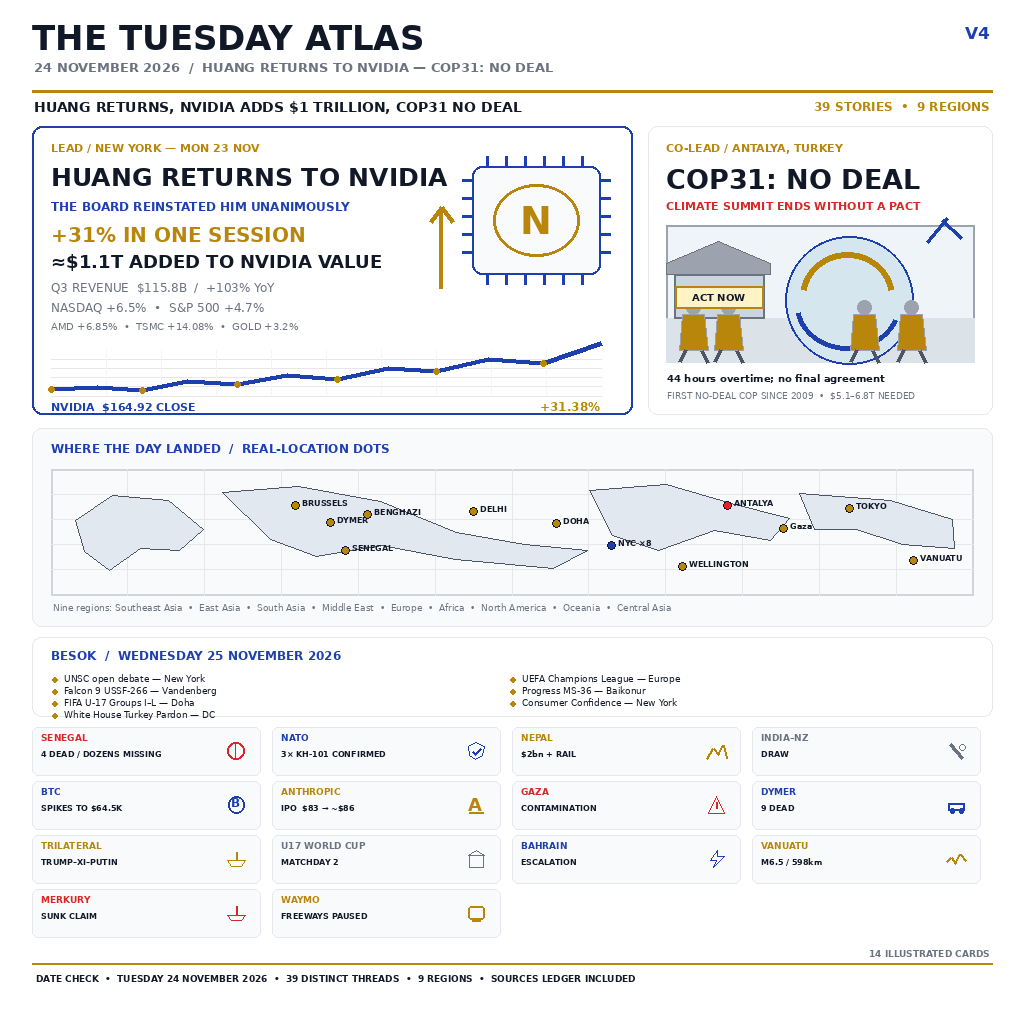
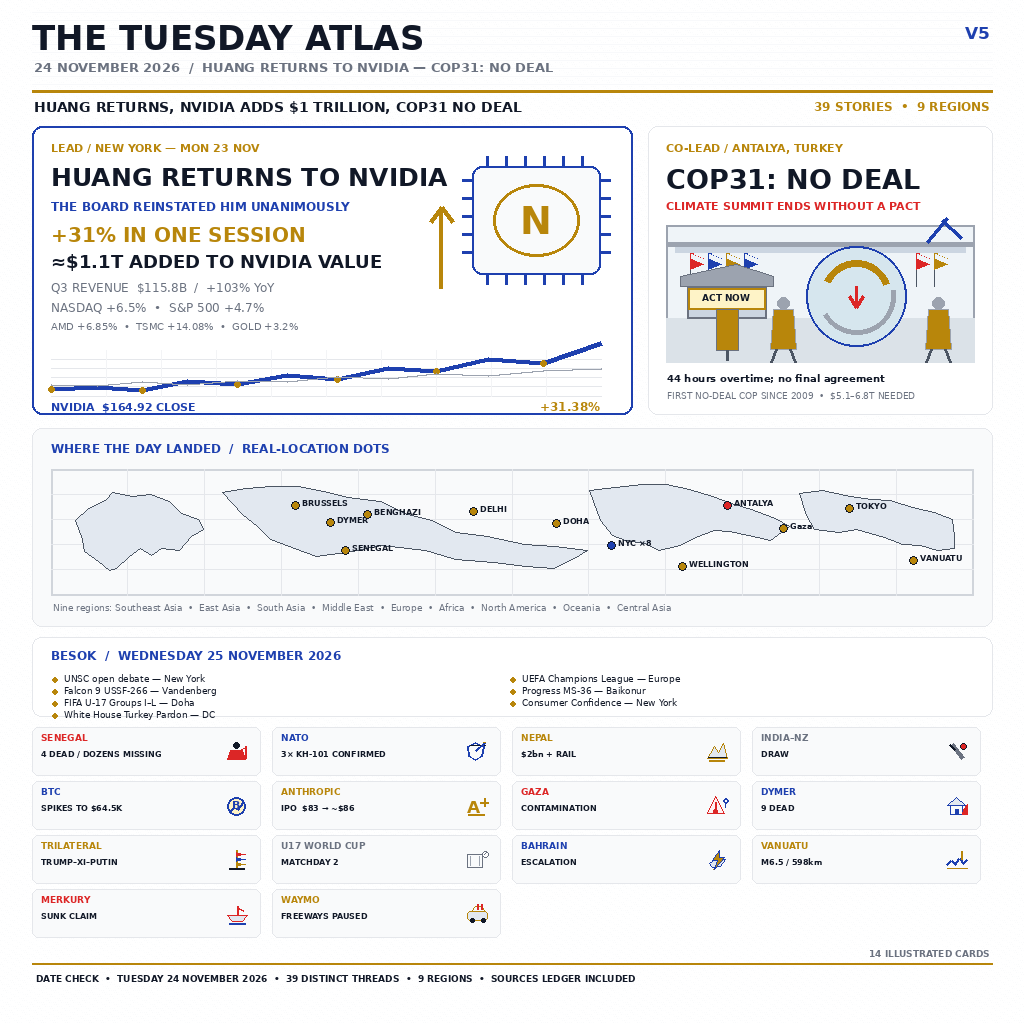
Add richer visual details for NI24 V5

diff --git a/render.py b/render.py
@@ -5,13 +5,25 @@ BG = (255, 255, 255); PANEL = (249, 250, 251); INK = (17, 24, 39)
 MUTED = (107, 114, 128); GOLD = (184, 134, 11); CYAN = (30, 64, 175)
 RED = (220, 38, 38); BLUE = (30, 64, 175); GREEN = (107, 114, 128); ORANGE = (184, 134, 11)
 im = Image.new('RGB', (W, H), BG); d = ImageDraw.Draw(im)
+# Deterministic paper grain keeps the large white field tactile while remaining
+# below normal viewing contrast. It also survives downsampling as a clean tint.
+for yy in range(0, H, 2):
+    for xx in range((yy // 2) % 2, W, 2):
+        grain = ((xx * 1103515245 + yy * 12345 + 67891) >> 8) % 17
+        if grain < 9:
+            shade = 249 + (grain % 4)
+            im.putpixel((xx, yy), (shade, shade + 1, shade + 2))
+d = ImageDraw.Draw(im)
 FP = '/usr/share/fonts/truetype/dejavu/DejaVuSans.ttf'; FB = '/usr/share/fonts/truetype/dejavu/DejaVuSans-Bold.ttf'
 def font(n, bold=False): return ImageFont.truetype(FB if bold else FP, n)
 def text(x, y, s, n=12, c=INK, bold=False, anchor=None): d.text((x, y), s, font=font(n, bold), fill=c, anchor=anchor)
 def box(x0, y0, x1, y1, fill=PANEL, outline=(229, 231, 235), r=8, w=1): d.rounded_rectangle((x0,y0,x1,y1), r, fill=fill, outline=outline, width=w)
 def line(points, fill, width=2): d.line(points, fill=fill, width=width)
 
-text(32,18,'THE TUESDAY ATLAS',34,INK,True); text(34,59,'24 NOVEMBER 2026  /  HUANG RETURNS TO NVIDIA — COP31: NO DEAL',13,MUTED,True); text(990,23,'V4',17,BLUE,True,'ra'); line((32,91,992,91),GOLD,3)
+# Barely-visible horizontal drafting rules add depth without competing with the masthead.
+for yy in range(12,88,8): line((32,yy,992,yy),(248,249,251),1)
+text(32,18,'THE TUESDAY ATLAS',34,INK,True); text(34,59,'24 NOVEMBER 2026  /  HUANG RETURNS TO NVIDIA — COP31: NO DEAL',13,MUTED,True); text(990,23,'V5',17,BLUE,True,'ra')
+line((32,91,992,91),GOLD,3)
 text(34,99,'HUANG RETURNS, NVIDIA ADDS $1 TRILLION, COP31 NO DEAL',14,INK,True); text(990,99,'39 STORIES  •  9 REGIONS',12,GOLD,True,'ra')
 
 box(32,126,632,414,(255,255,255),BLUE,10,2); text(51,141,'LEAD / NEW YORK — MON 23 NOV',11,GOLD,True); text(51,162,'HUANG RETURNS TO NVIDIA',25,INK,True); text(51,199,'THE BOARD REINSTATED HIM UNANIMOUSLY',12,BLUE,True); text(51,223,'+31% IN ONE SESSION',20,GOLD,True); text(51,251,'≈$1.1T ADDED TO NVIDIA VALUE',18,INK,True); text(51,280,'Q3 REVENUE  $115.8B  /  +103% YoY',12,MUTED); text(51,300,'NASDAQ +6.5%  •  S&P 500 +4.7%',12,MUTED); text(51,320,'AMD +6.85%  •  TSMC +14.08%  •  GOLD +3.2%',10,MUTED)
@@ -21,6 +33,9 @@ for i in range(1,10): line((gx+i*gw/10,gy,gx+i*gw/10,gy+gh),(243,244,246),1)
 pts=[(gx,gy+39),(gx+46,gy+37),(gx+91,gy+40),(gx+136,gy+31),(gx+186,gy+34),(gx+236,gy+25),(gx+286,gy+29),(gx+337,gy+18),(gx+385,gy+21),(gx+437,gy+9),(gx+492,gy+13),(gx+550,gy-7)]
 line(pts,CYAN,5)
 for x,y in pts[::2]: d.ellipse((x-3,y-3,x+3,y+3),fill=GOLD)
+# A fine gray market benchmark gives the dominant NVIDIA trace context.
+bench=[(gx,gy+34),(gx+46,gy+35),(gx+91,gy+31),(gx+136,gy+34),(gx+186,gy+30),(gx+236,gy+31),(gx+286,gy+26),(gx+337,gy+28),(gx+385,gy+23),(gx+437,gy+25),(gx+492,gy+20),(gx+550,gy+18)]
+line(bench,(156,163,175),2)
 text(51,400,'NVIDIA  $164.92 CLOSE',11,CYAN,True); text(600,399,'+31.38%',12,GOLD,True,'ra')
 d.rounded_rectangle((472,166,600,274),10,fill=(249,250,251),outline=BLUE,width=2)
 for xx in (487,506,525,544,563,582): line((xx,156,xx,166),CYAN,3); line((xx,274,xx,284),CYAN,3)
@@ -29,17 +44,24 @@ d.ellipse((493,184,579,256),outline=GOLD,width=3); text(536,220,'N',38,GOLD,True
 
 box(648,126,992,414,(255,255,255),(229,231,235),10,1); text(666,141,'CO-LEAD / ANTALYA, TURKEY',11,GOLD,True); text(666,163,'COP31: NO DEAL',27,INK,True); text(666,199,'CLIMATE SUMMIT ENDS WITHOUT A PACT',11,RED,True)
 ix0,iy0,ix1,iy1=666,225,974,362; d.rectangle((ix0,iy0,ix1,iy1),fill=(239,244,248),outline=(156,163,175),width=2); d.rectangle((ix0,318,ix1,iy1),fill=(219,226,232))
-# A summit hall scene: delegates, climate placards, and a storm front over the globe.
-d.ellipse((785,236,913,364),fill=(214,230,238),outline=BLUE,width=2); d.arc((800,252,894,342),190,350,fill=GOLD,width=6); d.arc((795,260,900,350),20,170,fill=BLUE,width=5); d.polygon([(666,263),(718,241),(770,263),(770,274),(666,274)],fill=(156,163,175),outline=(107,114,128)); d.rectangle((674,274,764,318),fill=(203,213,225),outline=(107,114,128),width=2)
-for x in (693,728,864,911):
- d.ellipse((x-7,300,x+7,314),fill=(156,163,175)); d.polygon([(x-11,314),(x+11,314),(x+15,350),(x-14,350)],fill=GOLD,outline=(156,163,175)); d.line((x-8,350,x-14,362),fill=(75,85,99),width=4); d.line((x+8,350,x+14,362),fill=(75,85,99),width=4)
-d.rectangle((675,286,763,308),fill=(254,243,199),outline=GOLD,width=2); text(719,297,'ACT NOW',10,INK,True,'mm'); d.line((927,242,947,218),fill=BLUE,width=3); d.line((942,220,961,238),fill=BLUE,width=3)
+# A compact summit hall: flag wall, podium, delegates, and a broken progress ring.
+d.rectangle((666,242,974,246),fill=(156,163,175)); d.rectangle((675,247,965,252),fill=(203,213,225))
+for fx,fc in ((690,RED),(708,BLUE),(726,GOLD),(744,BLUE),(916,RED),(934,GOLD)):
+ d.line((fx,253,fx,286),fill=(75,85,99),width=1); d.polygon([(fx,253),(fx+13,258),(fx,253),(fx,269),(fx+13,264),(fx,258)],fill=fc)
+d.ellipse((806,246,906,346),fill=(214,230,238),outline=BLUE,width=2)
+d.arc((821,260,891,330),205,340,fill=GOLD,width=7); d.arc((818,258,895,334),350,150,fill=(156,163,175),width=5)
+d.line((856,286,856,307),fill=RED,width=3); d.line((849,296,856,307),fill=RED,width=3); d.line((863,296,856,307),fill=RED,width=3)
+d.polygon([(680,276),(736,264),(773,276),(773,286),(680,286)],fill=(156,163,175),outline=(107,114,128)); d.rectangle((687,286,766,318),fill=(203,213,225),outline=(107,114,128),width=2)
+d.rectangle((688,288,765,309),fill=(254,243,199),outline=GOLD,width=2); text(726,298,'ACT NOW',9,INK,True,'mm'); d.rectangle((716,309,738,350),fill=(184,134,11),outline=(107,114,128)); d.line((727,350,727,360),fill=(75,85,99),width=3)
+for x in (783,938):
+ d.ellipse((x-6,297,x+6,309),fill=(156,163,175)); d.polygon([(x-10,309),(x+10,309),(x+13,349),(x-13,349)],fill=GOLD,outline=(156,163,175)); d.line((x-7,349,x-12,362),fill=(75,85,99),width=3); d.line((x+7,349,x+12,362),fill=(75,85,99),width=3)
+d.line((927,242,947,218),fill=BLUE,width=3); d.line((942,220,961,238),fill=BLUE,width=3)
 text(667,372,'44 hours overtime; no final agreement',10,INK,True); text(667,390,'FIRST NO-DEAL COP SINCE 2009  •  $5.1–6.8T NEEDED',9,MUTED)
 
 box(32,428,992,626,(249,250,251),(229,231,235),10,1); text(51,441,'WHERE THE DAY LANDED  /  REAL-LOCATION DOTS',12,BLUE,True); mx,my,mw,mh=51,469,922,126; d.rectangle((mx,my,mx+mw,my+mh),fill=(249,250,251),outline=(209,213,219),width=2)
 for i in range(1,12): line((mx+i*mw/12,my,mx+i*mw/12,my+mh),(229,231,235),1)
 for i in range(1,5): line((mx,my+i*mh/5,mx+mw,my+i*mh/5),(229,231,235),1)
-continents=[[(75,520),(112,495),(168,500),(203,529),(179,550),(140,548),(109,570),(84,551)],[(222,492),(298,486),(380,501),(456,532),(524,544),(587,550),(553,568),(455,559),(381,545),(316,556),(270,539)],[(589,490),(666,484),(731,503),(789,518),(770,540),(714,530),(658,550),(612,535)],[(799,493),(890,500),(952,519),(954,548),(902,544),(856,529),(814,529)]]
+continents=[[(75,520),(88,508),(105,500),(112,492),(132,496),(150,494),(169,501),(181,513),(198,519),(203,529),(191,536),(179,550),(161,548),(151,555),(140,548),(129,556),(116,568),(109,570),(98,561),(84,551),(82,539)],[(222,492),(246,488),(271,486),(298,486),(323,491),(348,497),(380,501),(407,514),(432,520),(456,532),(487,536),(524,544),(554,546),(587,550),(574,558),(553,568),(525,566),(493,562),(455,559),(425,550),(381,545),(352,551),(316,556),(294,548),(270,539),(257,526),(242,514)],[(589,490),(615,487),(642,484),(666,484),(689,489),(712,496),(731,503),(751,509),(775,518),(789,526),(770,540),(748,535),(729,531),(714,530),(695,537),(680,545),(658,550),(644,543),(625,540),(612,535),(600,520)],[(799,493),(822,490),(850,496),(871,499),(890,500),(912,507),(934,512),(952,519),(954,536),(954,548),(937,550),(920,545),(902,544),(884,537),(856,529),(838,532),(814,529),(806,515)]]
 for shape in continents: d.polygon(shape,fill=(226,232,240),outline=(75,85,99))
 marks=[(345,550,'SENEGAL'),(295,505,'BRUSSELS'),(330,522,'DYMER'),(367,514,'BENGHAZI'),(473,511,'DELHI'),(556,523,'DOHA'),(611,545,'NYC ×8'),(682,566,'WELLINGTON'),(727,505,'ANTALYA'),(783,528,'Gaza'),(849,508,'TOKYO'),(913,560,'VANUATU')]
 for x,y,label in marks:
@@ -52,20 +74,36 @@ for i,event in enumerate(events): x=52+(i%2)*458; y=673+(i//2)*12; d.ellipse((x,
 
 cards=[('SENEGAL','4 DEAD / DOZENS MISSING',RED),('NATO','3× KH-101 CONFIRMED',BLUE),('NEPAL','$2bn + RAIL',GOLD),('INDIA–NZ','DRAW',GREEN),('BTC','SPIKES TO $64.5K',CYAN),('ANTHROPIC','IPO  $83 → ~$86',ORANGE),('GAZA','CONTAMINATION',RED),('DYMER','9 DEAD',BLUE),('TRILATERAL','TRUMP–XI–PUTIN',GOLD),('U17 WORLD CUP','MATCHDAY 2',GREEN),('BAHRAIN','ESCALATION',CYAN),('VANUATU','M6.5 / 598km',GOLD),('MERKURY','SUNK CLAIM',RED),('WAYMO','FREEWAYS PAUSED',ORANGE)]
 def icon(x,y,c,i):
- if i==0: d.ellipse((x,y,x+17,y+17),outline=c,width=2); line((x+8,y+1,x+8,y+16),c,1)
- elif i==1: d.polygon([(x+8,y),(x+17,y+4),(x+15,y+13),(x+8,y+17),(x+2,y+13),(x+1,y+4)],outline=c); line((x+5,y+9,x+8,y+12),c,2); line((x+8,y+12,x+14,y+6),c,2)
- elif i==2: line([(x,y+16),(x+6,y+6),(x+11,y+12),(x+16,y+3),(x+19,y+16)],c,2)
- elif i==3: line((x+3,y+2,x+15,y+16),c,3); d.ellipse((x+12,y+2,x+18,y+8),outline=c)
- elif i==4: d.ellipse((x+1,y,x+17,y+17),outline=c,width=2); text(x+4,y-1,'B',12,c,True)
- elif i==5: text(x+1,y-2,'A',18,c,True); line((x+2,y+16,x+16,y+16),c,2)
- elif i==6: d.polygon([(x+9,y),(x+17,y+17),(x+1,y+17)],outline=c); line((x+9,y+6,x+9,y+12),c,2)
- elif i==7: d.rectangle((x+1,y+7,x+17,y+14),outline=c,width=2); d.ellipse((x+3,y+12,x+7,y+17),fill=c); d.ellipse((x+12,y+12,x+16,y+17),fill=c)
- elif i==8: d.polygon([(x,y+10),(x+18,y+10),(x+14,y+16),(x+4,y+16)],outline=c); line((x+9,y+2,x+9,y+10),c,2)
- elif i==9: d.rectangle((x+2,y+5,x+16,y+17),outline=c); d.polygon([(x+1,y+5),(x+9,y),(x+17,y+5)],outline=c)
- elif i==10: d.polygon([(x+10,y),(x+3,y+10),(x+9,y+10),(x+6,y+17),(x+17,y+6),(x+10,y+6)],outline=c)
- elif i==11: line([(x,y+11),(x+4,y+7),(x+8,y+13),(x+13,y+4),(x+18,y+10)],c,2)
- elif i==12: d.polygon([(x,y+11),(x+18,y+11),(x+14,y+16),(x+4,y+16)],outline=c); line((x+9,y+2,x+9,y+11),c,2)
- else: d.rounded_rectangle((x+1,y+2,x+17,y+15),3,outline=c,width=2); line((x+5,y+16,x+13,y+16),c,2)
+ navy=(17,24,39); gray=(156,163,175)
+ if i==0: # Senegal rescue scene
+  d.ellipse((x+6,y,x+12,y+6),fill=navy); d.polygon([(x+3,y+8),(x+15,y+8),(x+18,y+17),(x,y+17)],fill=c); line((x+18,y+4,x+18,y+16),c,2); line((x+18,y+5,x+12,y+8),c,1)
+ elif i==1: # NATO shield and missile
+  d.polygon([(x+8,y),(x+17,y+4),(x+15,y+14),(x+8,y+18),(x+1,y+14),(x,y+4)],outline=c,width=2); line((x+3,y+3,x+18,y+3),navy,1); line((x+9,y+8,x+18,y),c,2); line((x+16,y,x+18,y),GOLD,1)
+ elif i==2: # Nepal mountain and rail
+  d.polygon([(x,y+16),(x+7,y+4),(x+11,y+10),(x+16,y+1),(x+20,y+16)],fill=(226,232,240),outline=c); line((x+1,y+15,x+19,y+15),navy,1); line((x+2,y+18,x+17,y+18),c,2)
+ elif i==3: # cricket bat and ball
+  line((x+4,y+2,x+15,y+16),c,4); line((x+2,y+2,x+7,y+7),navy,2); d.ellipse((x+13,y+1,x+19,y+7),fill=RED,outline=navy)
+ elif i==4: # bitcoin coin and chart
+  d.ellipse((x,y+1,x+18,y+19),fill=(254,243,199),outline=c,width=2); text(x+9,y+2,'B',11,c,True,'ma'); line((x+3,y+15,x+7,y+11,x+11,y+13,x+16,y+6),BLUE,2)
+ elif i==5: # Anthropic A and spark
+  text(x,y+1,'A',17,c,True); line((x+1,y+18,x+17,y+18),c,2); line((x+17,y+2,x+17,y+10),GOLD,2); line((x+13,y+6,x+21,y+6),GOLD,2)
+ elif i==6: # Gaza warning and pin
+  d.polygon([(x+8,y),(x+17,y+17),(x,y+17)],fill=(254,242,242),outline=c); line((x+8,y+6,x+8,y+12),c,2); d.ellipse((x+6,y+13,x+10,y+17),fill=c); d.ellipse((x+16,y+2,x+21,y+7),outline=BLUE,width=2); line((x+18,y+7,x+18,y+11),BLUE,1)
+ elif i==7: # Dymer house and flame
+  d.polygon([(x,y+9),(x+9,y+1),(x+18,y+9)],fill=(226,232,240),outline=c); d.rectangle((x+3,y+9,x+15,y+18),outline=c); d.rectangle((x+8,y+13,x+11,y+18),fill=c); d.polygon([(x+16,y+13),(x+20,y+8),(x+20,y+18),(x+15,y+18)],fill=RED)
+ elif i==8: # three flags
+  line((x+9,y,x+9,y+18),c,2); line((x+2,y+18,x+17,y+18),navy,2)
+  for j,fc in enumerate((RED,BLUE,GOLD)): d.polygon([(x+9,y+2+j*5),(x+18,y+4+j*5),(x+9,y+6+j*5)],fill=fc)
+ elif i==9: # football goal and ball
+  d.rectangle((x,y+4,x+15,y+17),outline=c); line((x+3,y+6,x+3,y+15),gray,1); line((x+12,y+6,x+12,y+15),gray,1); d.ellipse((x+15,y+1,x+21,y+7),fill=(255,255,255),outline=c); line((x+17,y+4,x+19,y+2),c,1)
+ elif i==10: # Bahrain lightning over map
+  d.polygon([(x+2,y+13),(x+9,y+8),(x+18,y+9),(x+13,y+16),(x+5,y+17)],fill=(226,232,240),outline=c); d.polygon([(x+12,y),(x+5,y+10),(x+10,y+10),(x+7,y+19),(x+17,y+7),(x+12,y+7)],fill=GOLD,outline=c)
+ elif i==11: # Vanuatu wave and seismograph
+  line([(x,y+14),(x+4,y+10),(x+8,y+14),(x+12,y+8),(x+16,y+13),(x+20,y+9)],BLUE,2); line((x,y+18,x+20,y+18),c,1); line((x+14,y+1,x+14,y+9),GOLD,2)
+ elif i==12: # sinking ship
+  d.polygon([(x,y+11),(x+20,y+11),(x+15,y+17),(x+5,y+17)],fill=(226,232,240),outline=c); line((x+10,y+2,x+10,y+11),c,2); line((x+10,y+3,x+16,y+6),RED,2); line((x+2,y+19,x+18,y+19),BLUE,2)
+ else: # Waymo car with pause symbol
+  d.rounded_rectangle((x,y+7,x+20,y+16),3,fill=(226,232,240),outline=c); d.polygon([(x+4,y+7),(x+8,y+2),(x+14,y+2),(x+18,y+7)],outline=c); d.ellipse((x+3,y+14,x+7,y+18),fill=navy); d.ellipse((x+14,y+14,x+18,y+18),fill=navy); line((x+10,y,x+10,y+5),RED,2); line((x+14,y,x+14,y+5),RED,2)
 for i,(head,sub,col) in enumerate(cards):
  x=32+(i%4)*240; y=727+(i//4)*54; box(x,y,x+228,y+48,(249,250,251),(229,231,235),6,1); text(x+9,y+5,head,9,col,True); text(x+9,y+22,sub,8,INK,True); icon(x+195,y+15,col,i)
 text(990,948,'14 ILLUSTRATED CARDS',9,MUTED,True,'ra'); line((32,963,992,963),GOLD,2); text(36,973,'DATE CHECK  •  TUESDAY 24 NOVEMBER 2026  •  39 DISTINCT THREADS  •  9 REGIONS  •  SOURCES LEDGER INCLUDED',9,INK,True)
